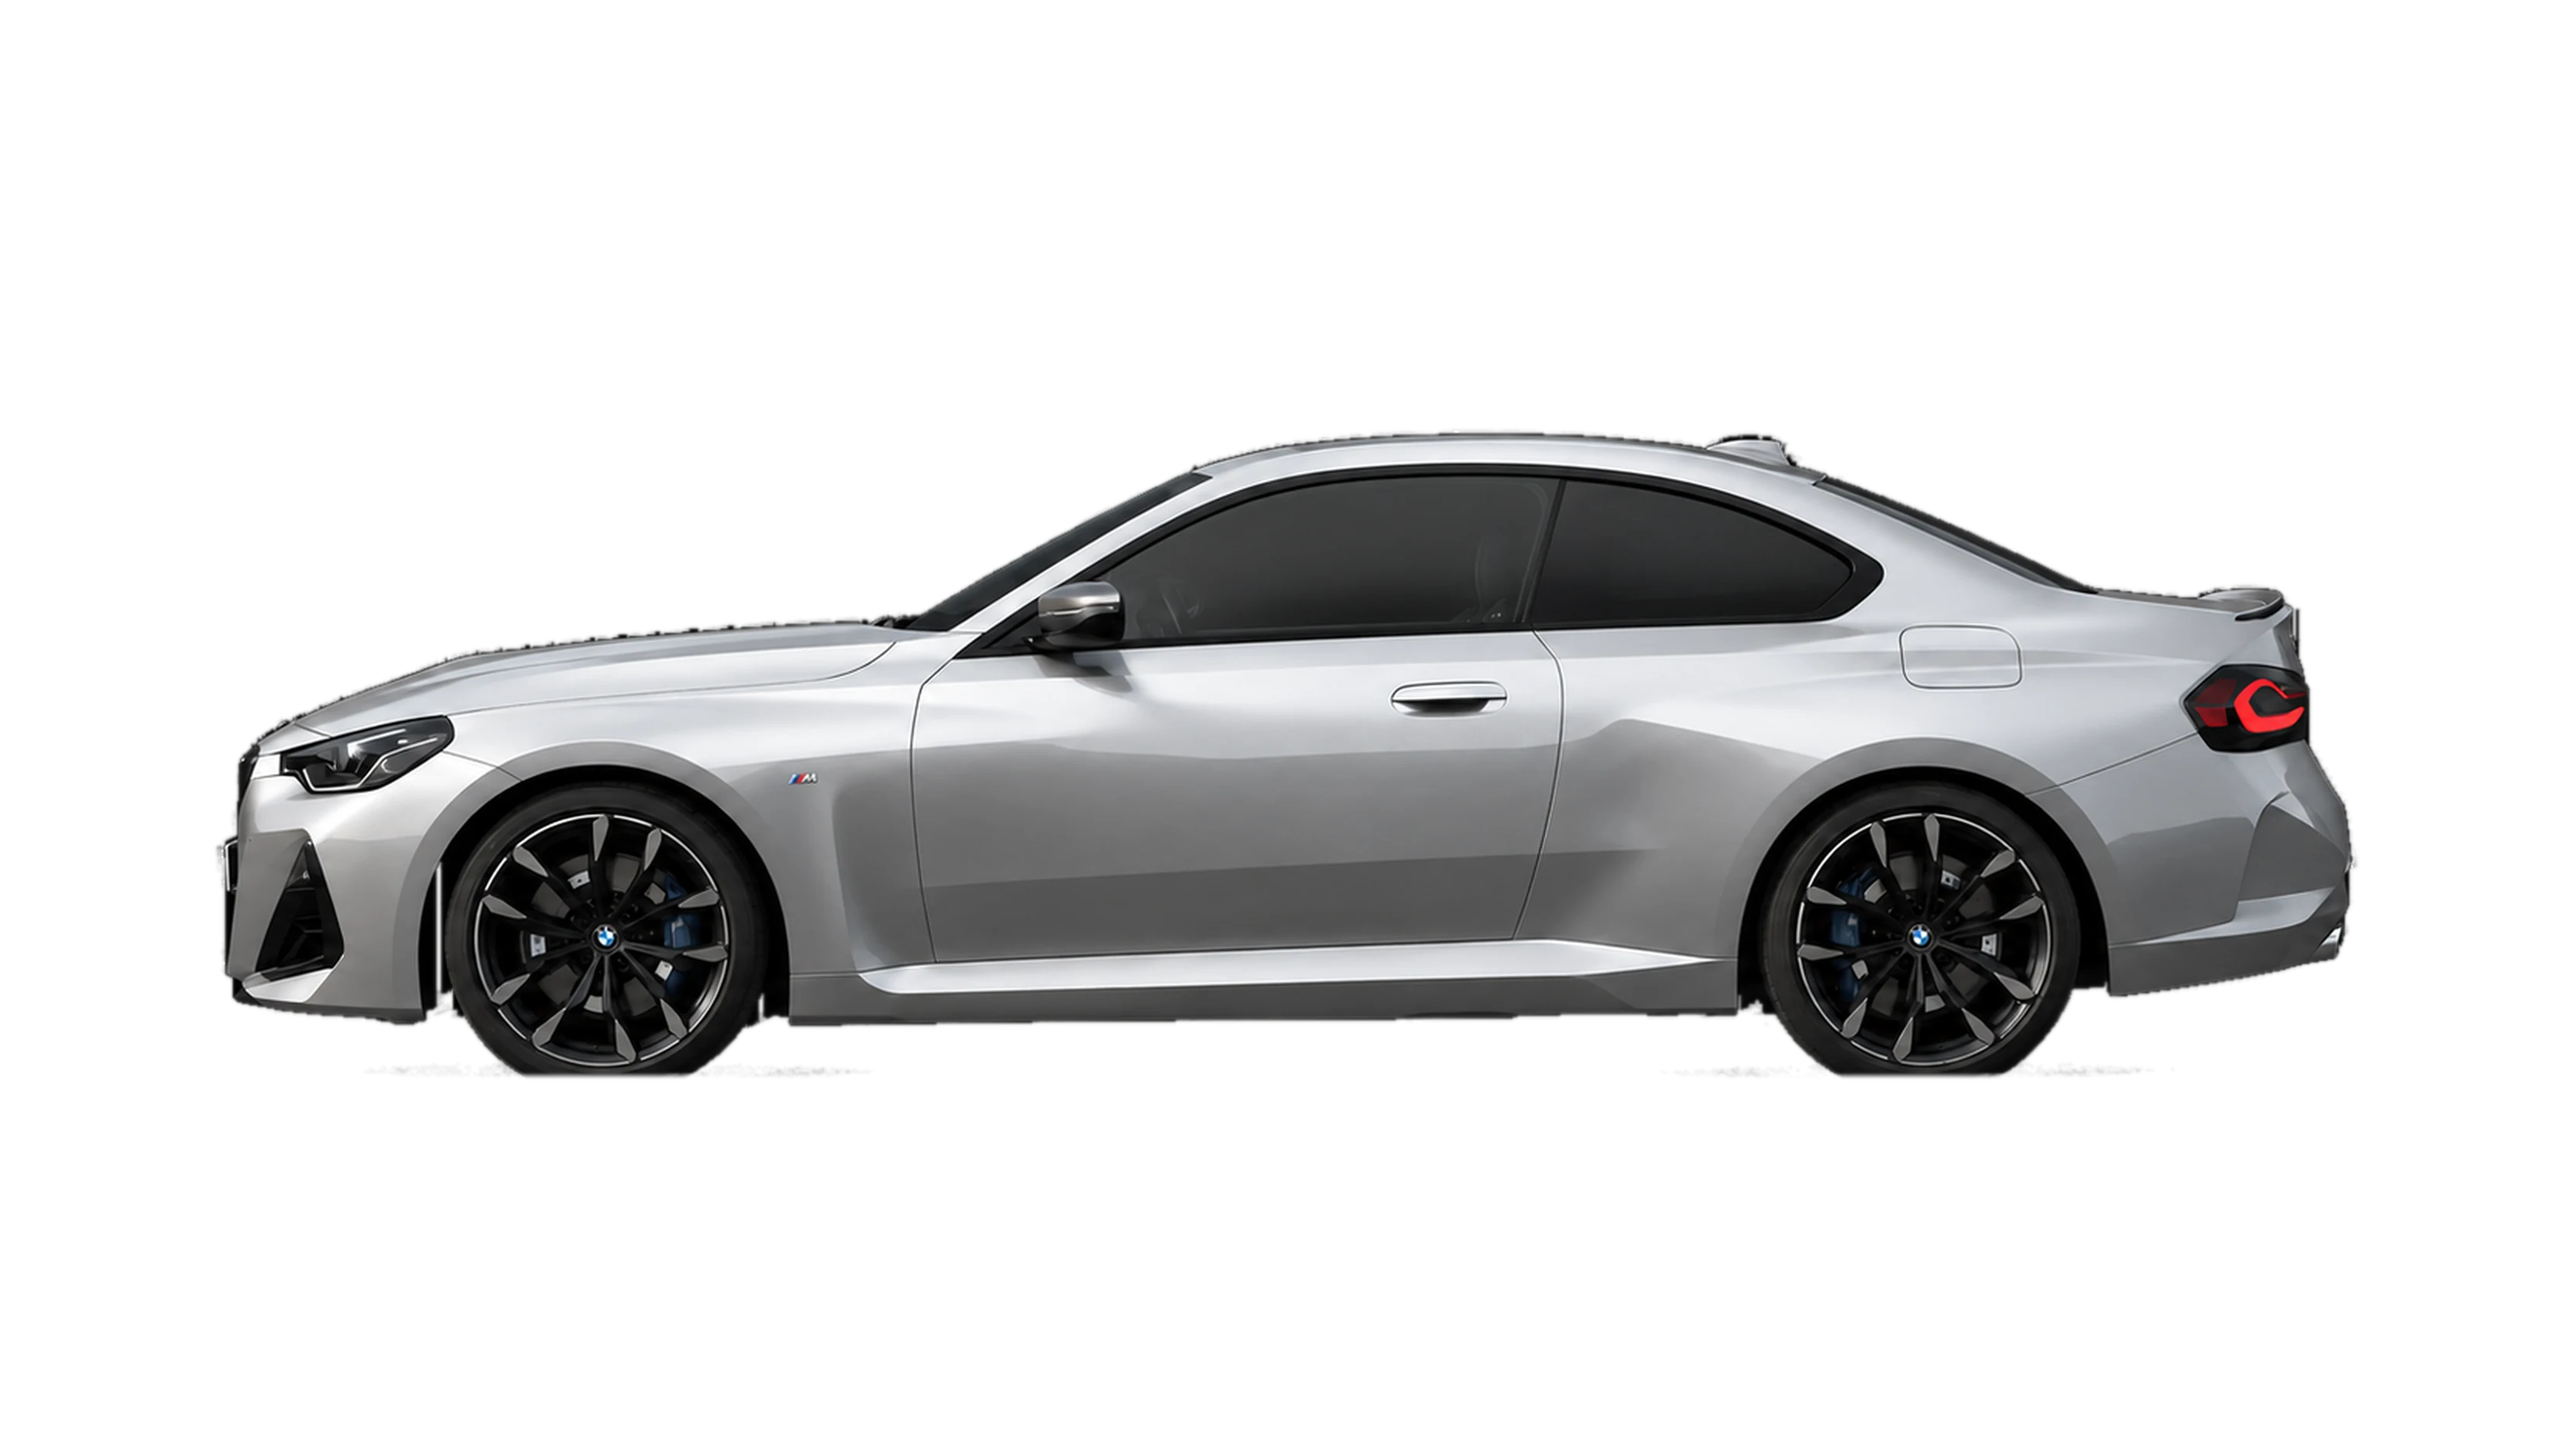
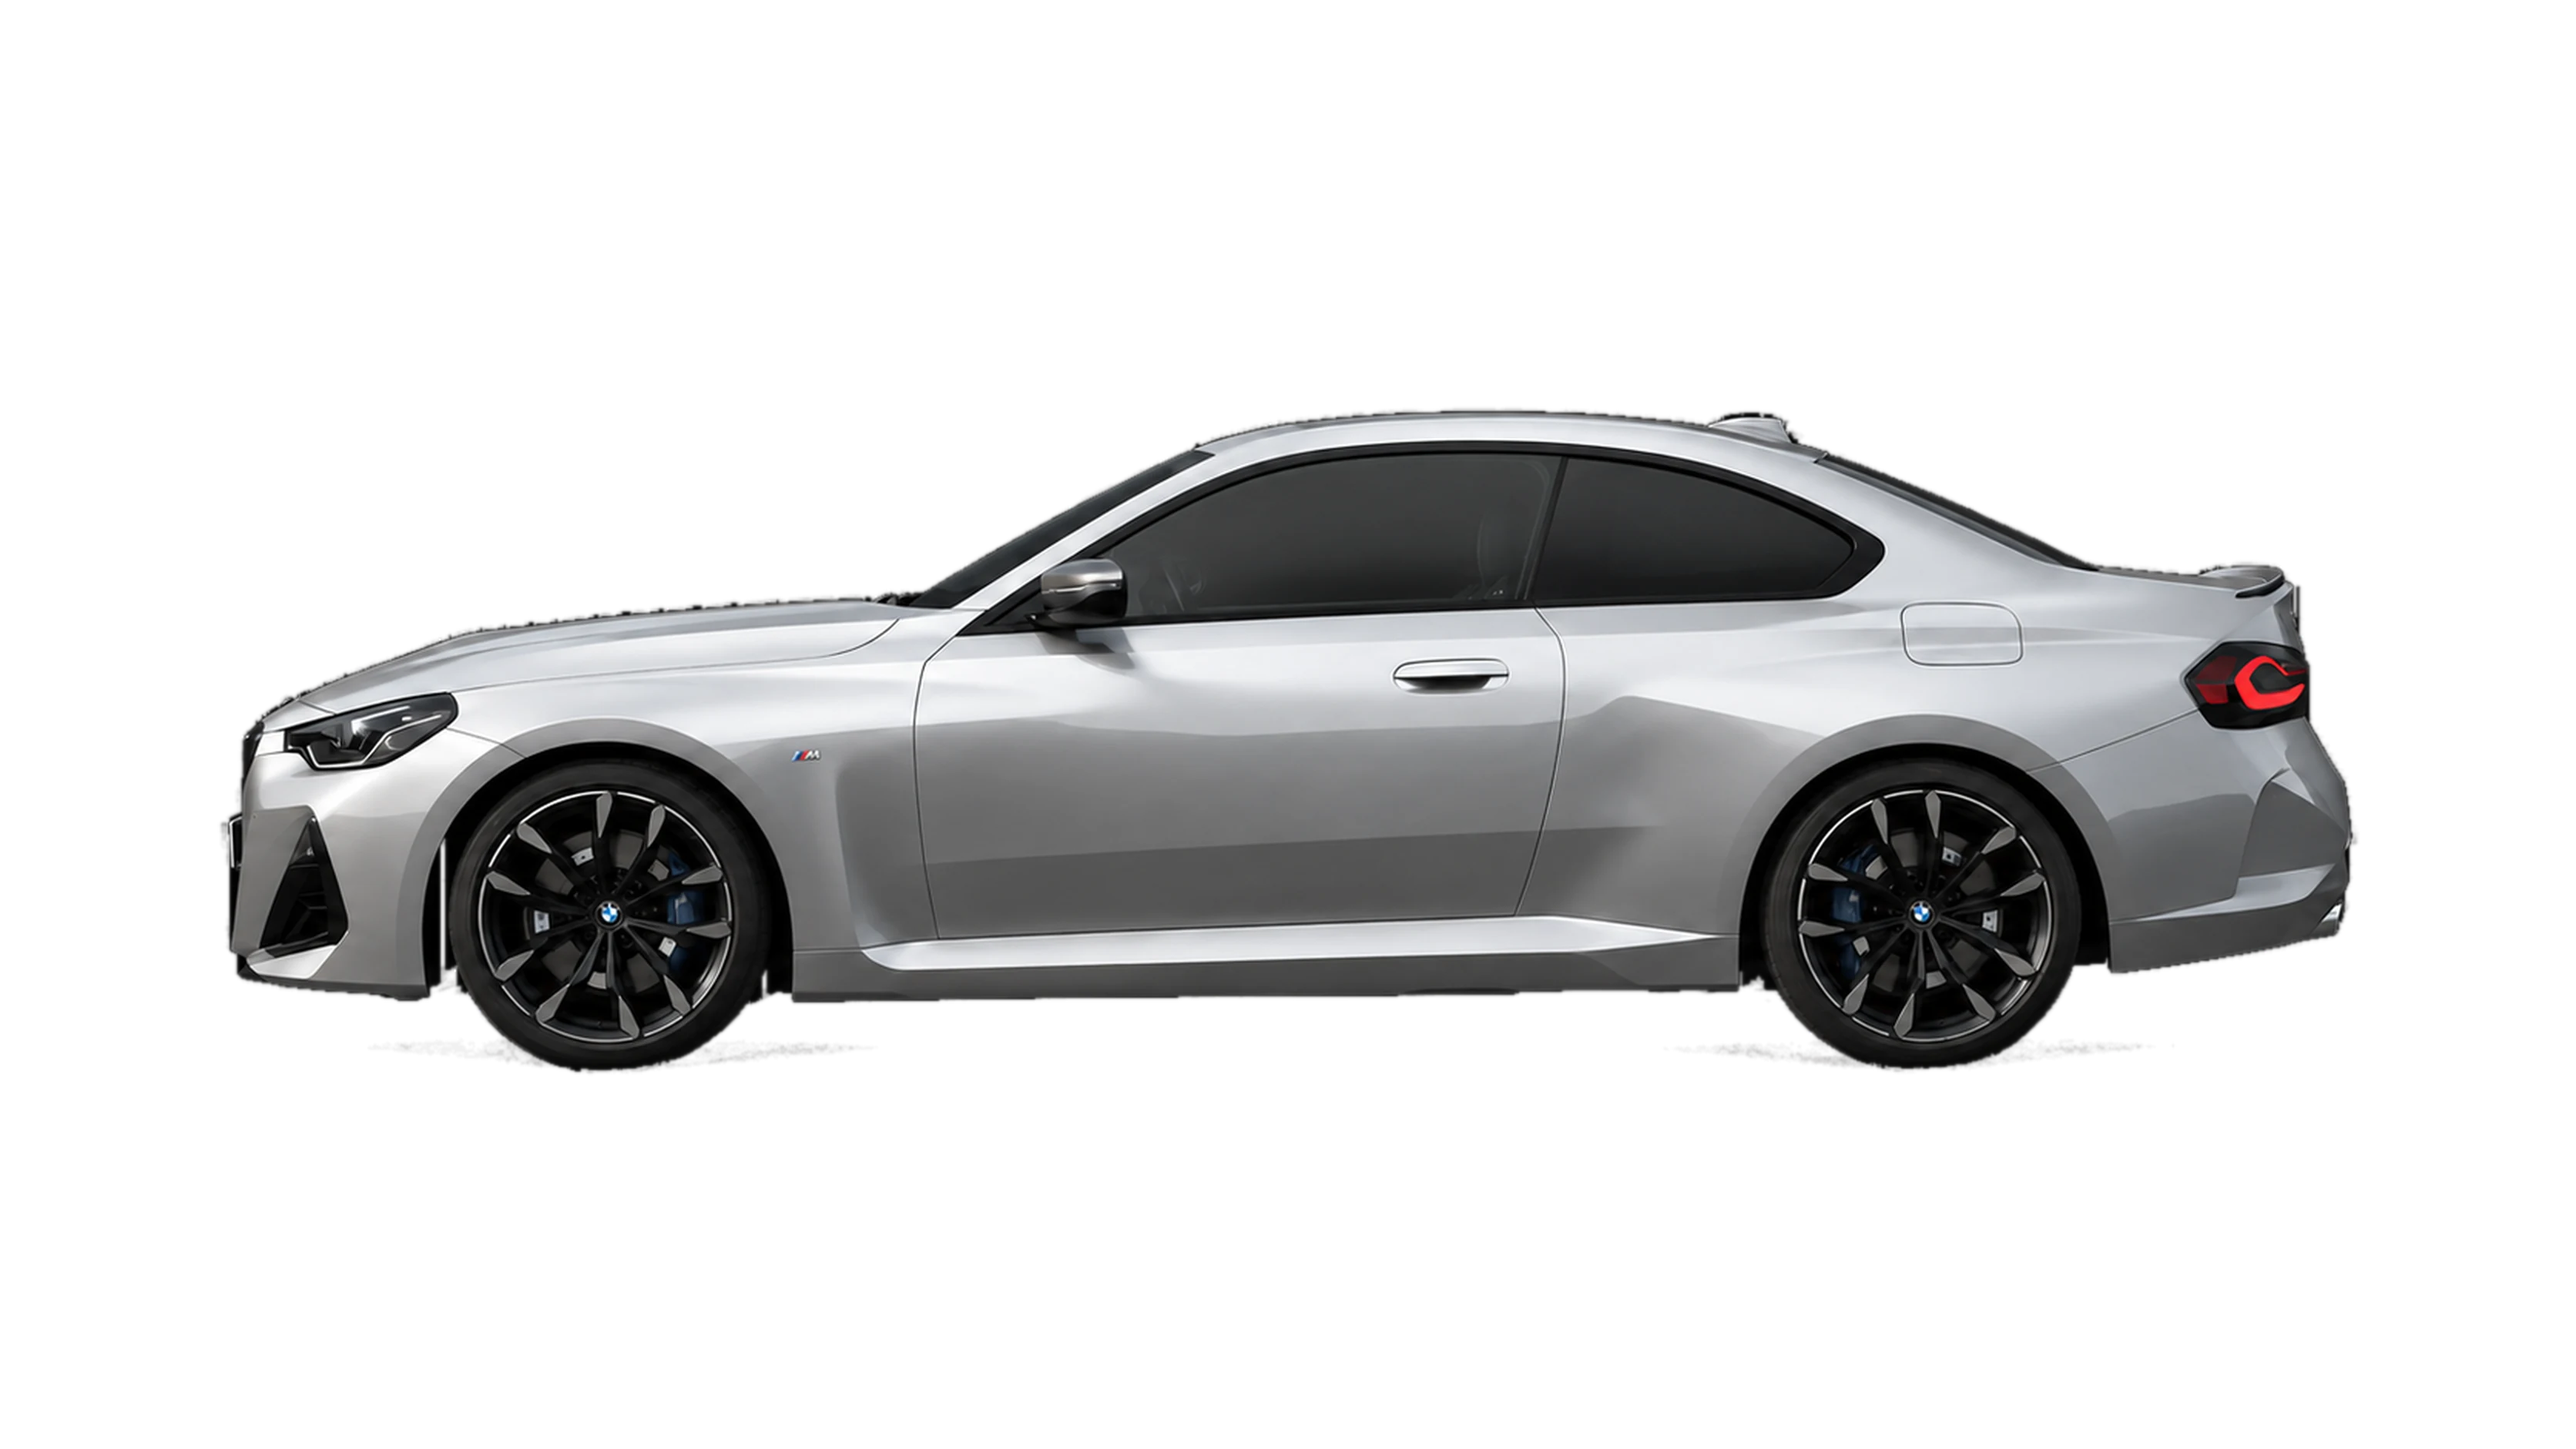
Revierte el recorte al estado que tenían los cinco autos buenos
Para arreglar el apoyo del RS 3 toqué el recorte de TODOS, y eso les
sacó a los otros cinco la línea de reflejo que tenían bajo las ruedas
y que se veía bien. Arreglé uno y rompí cinco.

Vuelve tools/build-cars.py y los recortes a 75e9600. El RS 3 queda
otra vez con su defecto original, que es lo que hay que resolver
aparte y sin tocar a los demás.

Changed region(s): [[0.0622, 0.2774, 0.933, 0.7705]]

diff --git a/tools/build-cars.py b/tools/build-cars.py
@@ -74,34 +74,10 @@ def cutout(path):
     ys, xs = np.where(solid)
     if xs.size == 0:
         raise SystemExit(f"no se encontró ningún auto en {path}")
-
-    # El relleno se corta en la línea de las ruedas. Algunas fotos traen
-    # una neblina tenue en el piso —luminancia 14 sobre 255— que igual
-    # supera el umbral, y sin este tope el relleno bajaba hasta ella y
-    # le colgaba al auto unas patas negras debajo de cada neumático.
-    #
-    # La línea se busca con un umbral alto (45) porque a esa altura sólo
-    # queda chapa y goma: la neblina no llega.
-    fuerte = rgb.max(2) > 45
-    ground = np.where(fuerte.sum(1) > 3)[0].max()
-
     for x in range(xs.min(), xs.max() + 1):
-        col = np.where(solid[:ground + 1, x])[0]
+        col = np.where(solid[:, x])[0]
         if col.size > 3:
             alpha[col.min(): col.max() + 1, x] = 1.0
-
-    # Corte en el punto de apoyo. Lo que cada foto trae por debajo de la
-    # goma es distinto y no se puede unificar: cinco traen una línea de
-    # luz —el reflejo del zócalo— que se funde con la barra, y el RS 3
-    # trae una neblina gris oscura que sobre la barra se ve como una
-    # mancha sucia. Conservarla fue el error de los dos intentos
-    # anteriores.
-    #
-    # Así que no se conserva ninguna: el auto termina donde termina la
-    # goma, igual para todos, y el apoyo lo da la barra de luz de la
-    # página. Los 4px de degradado evitan el borde de cuchillo.
-    y = np.arange(alpha.shape[0])[:, None]
-    alpha *= np.clip((ground + 4 - y) / 4.0, 0, 1)
 
     return rgb, alpha
 
@@ -109,21 +85,6 @@ def cutout(path):
 def bounds(alpha, thr=0.25):
     cols = np.where(alpha.max(0) > thr)[0]
     rows = np.where(alpha.max(1) > thr)[0]
-    return cols.min(), cols.max(), rows.min(), rows.max()
-
-
-def chassis(rgb, alpha):
-    """Caja del auto en sí, ignorando la neblina del piso.
-
-    Medir con el alfa no sirve para alinear: algunas fotos traen un velo
-    tenue de suelo que se extiende por debajo de los neumáticos, y si el
-    borde inferior del alfa se toma como línea de apoyo, el auto queda
-    flotando por encima de la barra de luz. Con umbral alto sólo quedan
-    chapa y goma, que es lo que de verdad toca el piso.
-    """
-    fuerte = (rgb.max(2) > 45) & (alpha > 0.5)
-    cols = np.where(fuerte.sum(0) > 2)[0]
-    rows = np.where(fuerte.sum(1) > 2)[0]
     return cols.min(), cols.max(), rows.min(), rows.max()
 
 
@@ -139,7 +100,7 @@ def main():
     cars = {}
     for s in slugs:
         rgb, alpha = cutout(f"{SRC}/{s}.png")
-        x0, x1, _, _ = chassis(rgb, alpha)
+        x0, x1, _, _ = bounds(alpha)
         # px por mm, normalizado al ancho del lienzo de salida
         cars[s] = (rgb, alpha, (x1 - x0) / rgb.shape[1] * CANVAS[0] / REAL[s])
 
@@ -158,10 +119,10 @@ def main():
         scaled = rgba.resize((sw, round(rgba.height * sw / rgba.width)),
                              Image.LANCZOS)
 
-        sa = np.asarray(scaled).astype(np.float32)
-        x0, x1, _, y1 = chassis(sa[..., :3], sa[..., 3] / 255)
+        a = np.asarray(scaled)[..., 3].astype(np.float32) / 255
+        x0, x1, _, y1 = bounds(a, 0.235)
         dx = round(CENTER * W - (x0 + x1) / 2)
-        dy = round(GROUND * H - y1)          # y1 = donde apoya el neumático
+        dy = round(GROUND * H - y1)
 
         canvas = Image.new("RGBA", (W, H), (0, 0, 0, 0))
         canvas.paste(scaled, (dx, dy))
@@ -185,8 +146,8 @@ def main():
     # --- comprobación: todos a escala real y sobre la misma línea ---
     print()
     for s in slugs:
-        im = np.asarray(Image.open(f"{OUT}/{s}.webp").convert("RGBA")).astype(np.float32)
-        x0, x1, y0, y1 = chassis(im[..., :3], im[..., 3] / 255)
+        a = np.asarray(Image.open(f"{OUT}/{s}.webp").convert("RGBA"))[..., 3]
+        x0, x1, y0, y1 = bounds(a.astype(np.float32) / 255)
         dev = ((x1 - x0) / REAL[s] / target - 1) * 100
         print(f"  {s:12} largo {x1-x0:4d}px  alto {y1-y0:4d}px  "
               f"ruedas {y1/H*100:5.1f}%  desvío {dev:+.1f}%")
